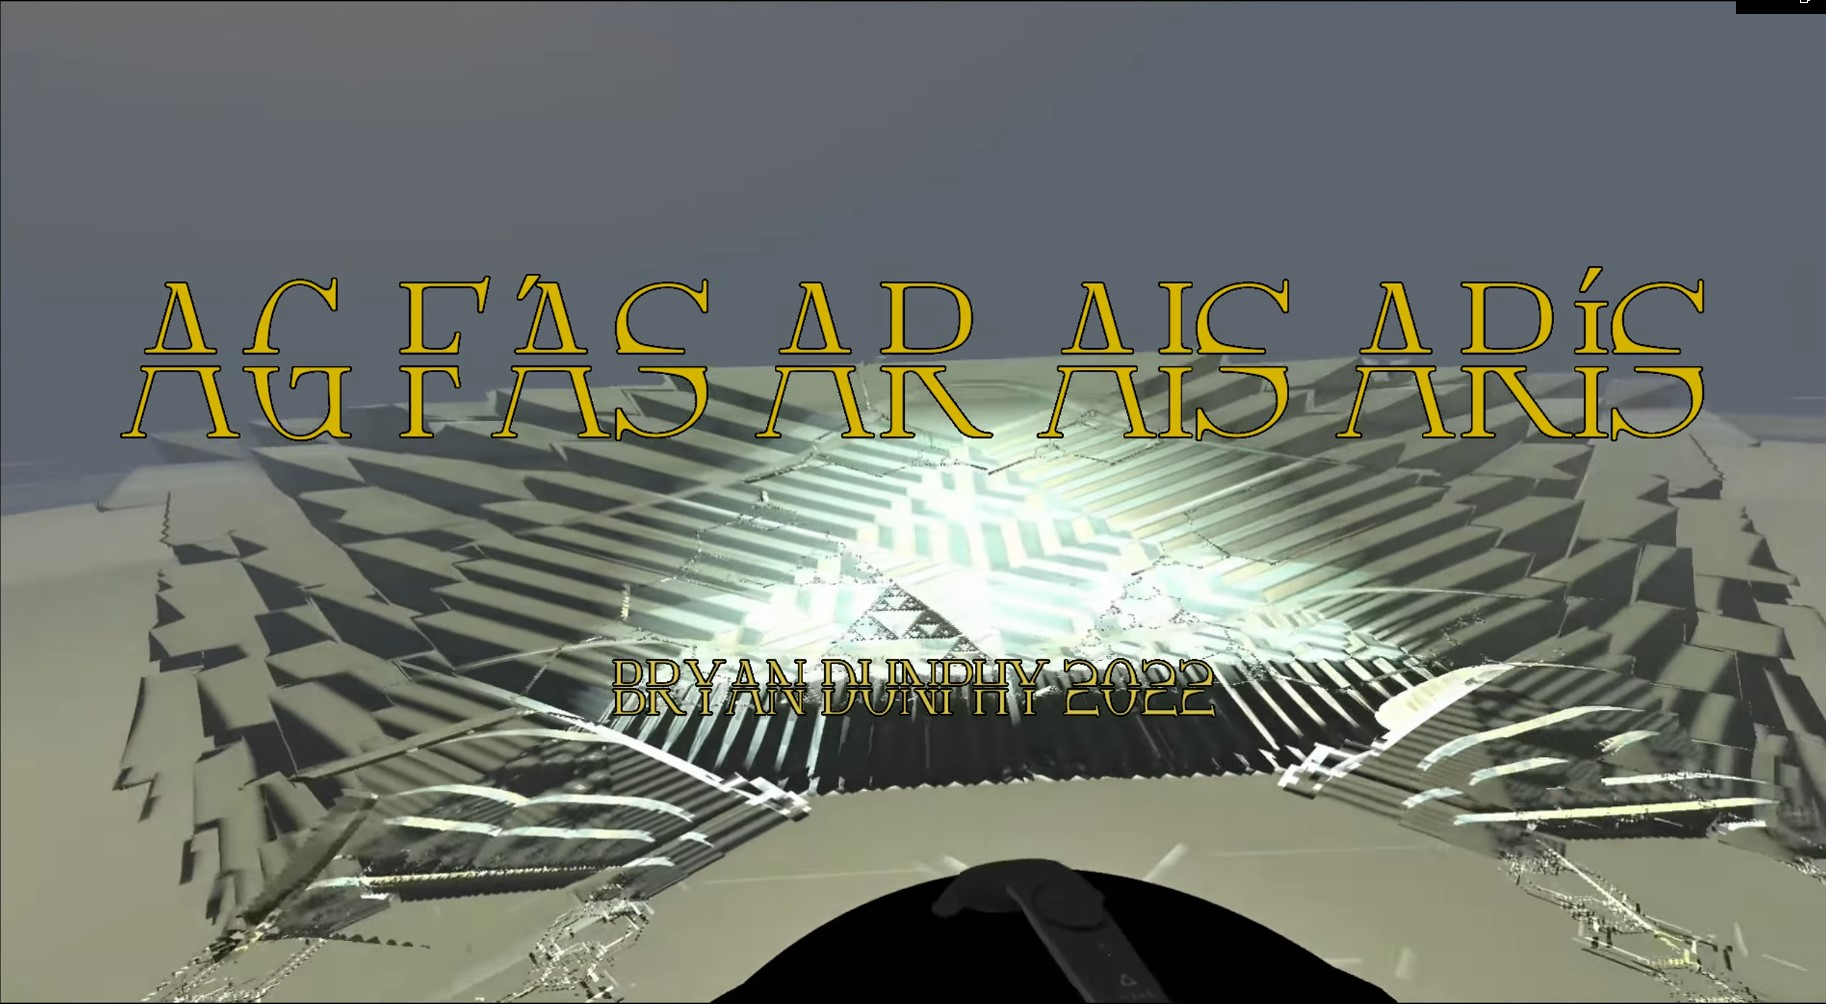
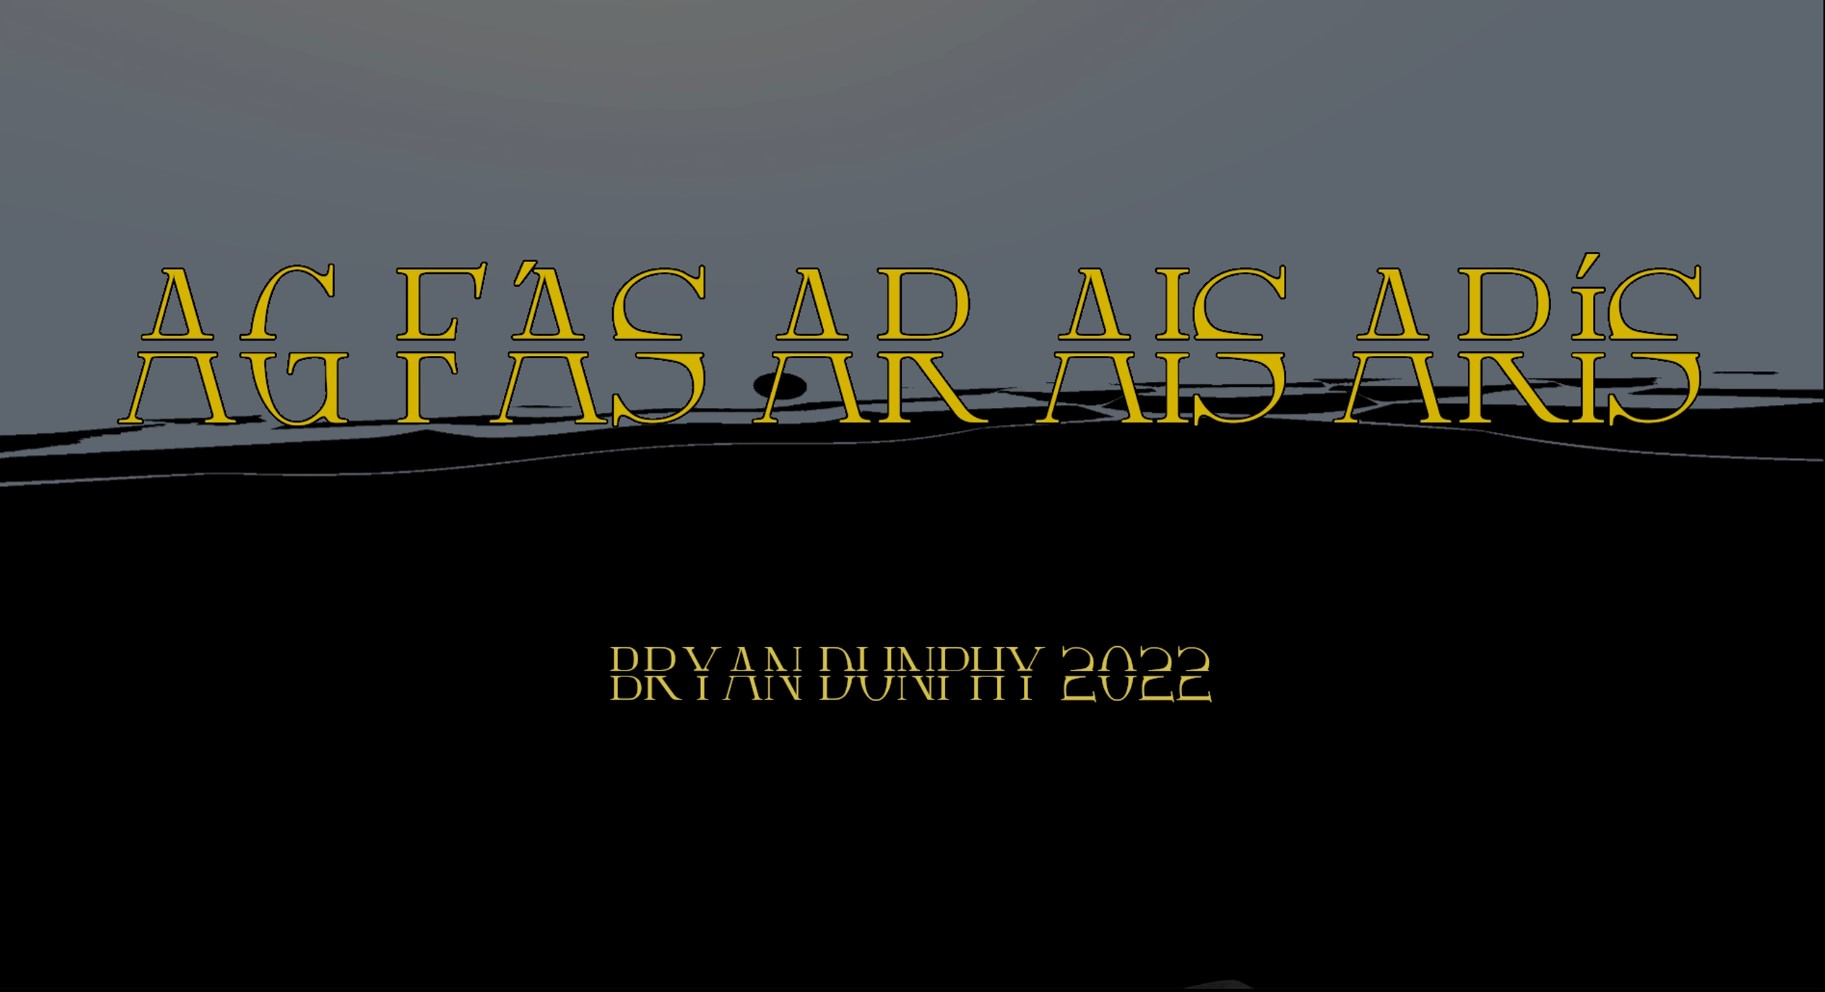
Adjust jpg of Ag Fas VR

diff --git a/_collections/_audiovisual/2022-09-20-agFasArAisArisVR.md b/_collections/_audiovisual/2022-09-20-agFasArAisArisVR.md
@@ -9,8 +9,7 @@ image: ../assets/images/agFasVRStill.jpg
 <section class="row m-2">
   <div class="col-md-12">
         <div class="d-flex justify-content-center embed-responsive embed-responsive-16by9">
-          <iframe class="embed-responsive-item" src="https://youtu.be/A2m3GUFThMQ" allowfullscreen></iframe>
-        </div>
+          <iframe class="embed-responsive-item"  src="https://www.youtube.com/embed/A2m3GUFThMQ" title="YouTube video player" frameborder="0" allow="accelerometer; autoplay; clipboard-write; encrypted-media; gyroscope; picture-in-picture" allowfullscreen></iframe>       </div>
   </div>
 </section>
 Ag Fás Ar Ais Arís (VR) is a fully immersive, audiovisual composition for VR. The audio and visual elements are carefully arranged in an effort to achieve a balanced audiovisual expression that incorporates all aspects of the virtual environment. The aesthetic goal of this piece is to present an environment that straddles abstraction and representation. It tries to find a balance between these ideas such that there are enough aspects familiar from reality to instill a sense of presence. On the other hand, the abstract elements are intended to exploit the possibilities of the medium for creating worlds that could only exist in our imaginations. 
